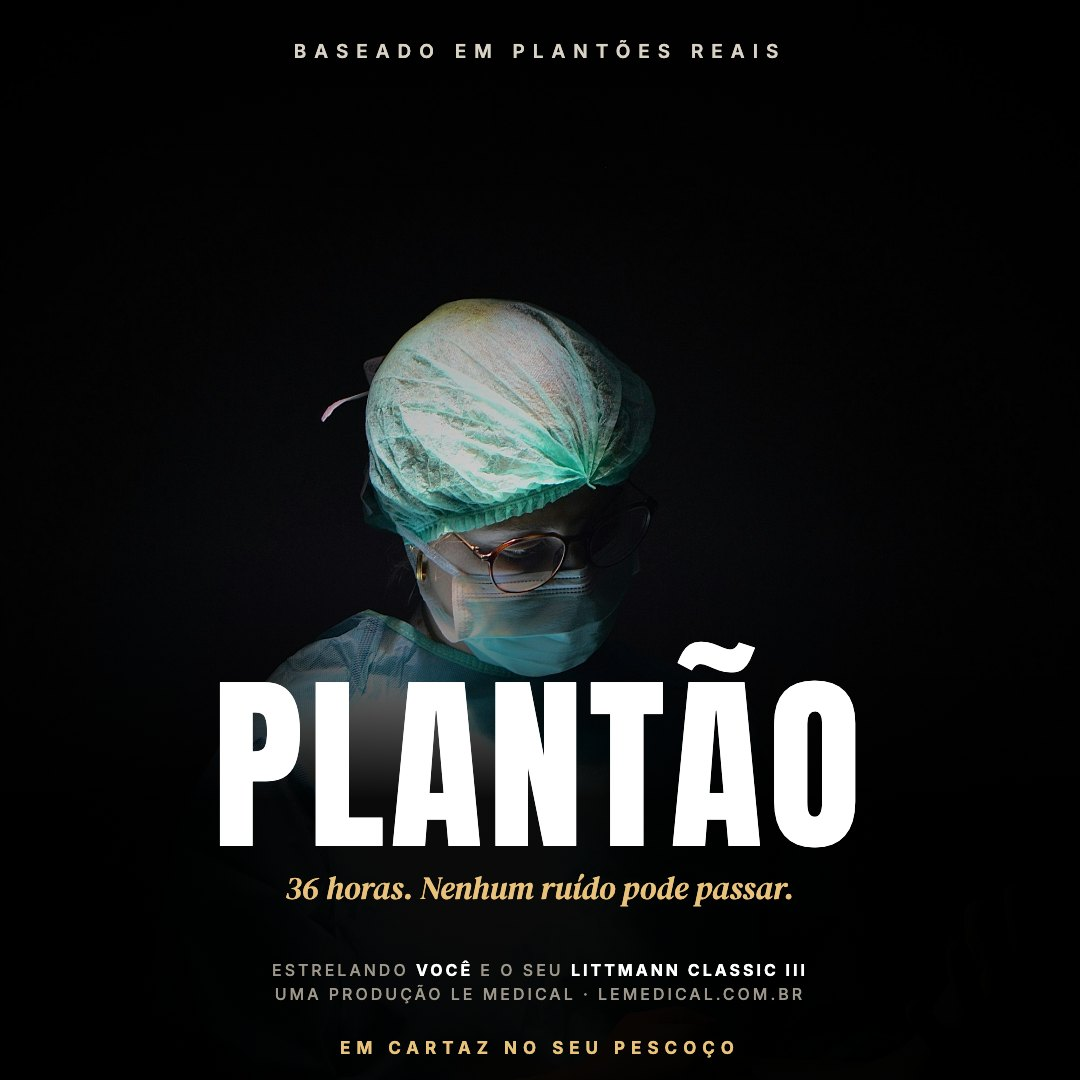
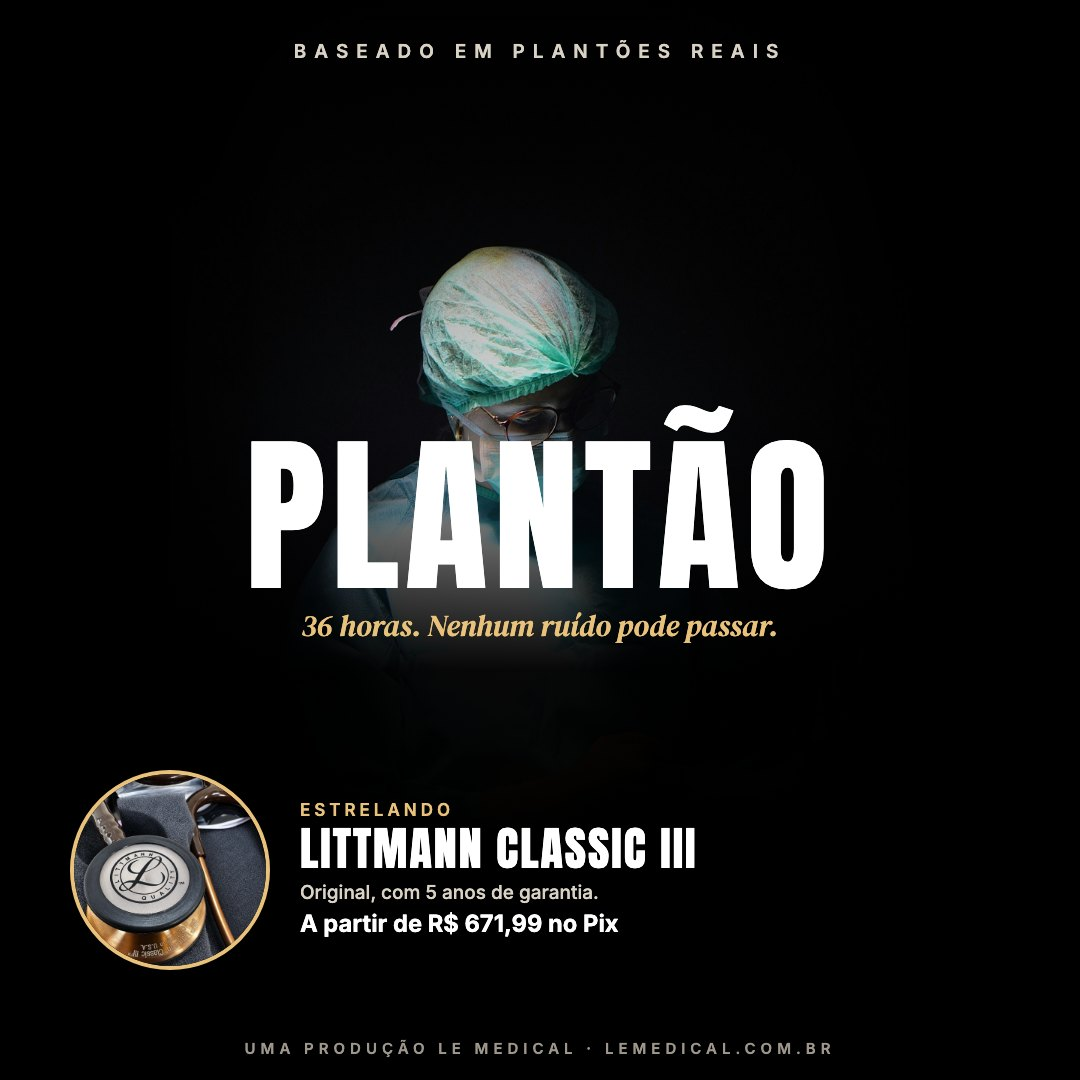
le-medical: linha 2 redesenhada com produto claro (peças 13-20)

Changed region(s): [[0.0611, 0.2139, 0.7944, 0.9778]]

diff --git a/le-medical/criativos-outubro-26/index.html b/le-medical/criativos-outubro-26/index.html
@@ -4,7 +4,7 @@
 <meta charset="utf-8">
 <meta name="viewport" content="width=device-width, initial-scale=1">
 <meta name="robots" content="noindex, nofollow">
-<meta name="description" content="Doze peças novas de anúncio da LE Medical para aprovação, outubro de 2026.">
+<meta name="description" content="Vinte peças novas de anúncio da LE Medical para aprovação, outubro de 2026.">
 <title>LE Medical · Criativos Outubro</title>
 <link rel="preconnect" href="https://fonts.googleapis.com"><link rel="preconnect" href="https://fonts.gstatic.com" crossorigin>
 <link rel="stylesheet" href="https://fonts.googleapis.com/css2?family=Nunito:wght@700;800;900&family=Inter:wght@400;500;600&display=swap">
@@ -39,13 +39,13 @@ footer{margin-top:48px;padding-top:20px;border-top:1px solid var(--line);font-si
 <body><div class="wrap">
 <header>
   <p class="eyebrow">LE Medical · Criativos · Outubro 2026</p>
-  <h1>12 peças novas para aprovação</h1>
+  <h1>20 peças novas para aprovação</h1>
   <p class="sub">São duas linhas. A primeira parte de anúncios que já venderam bem na conta neste ano, com uma ideia nova em cima. A segunda é diferente de tudo o que a conta já rodou: formatos novos com médicos e estudantes no centro. Todas têm a versão do feed (quadrada) e a do story. Podem aprovar quantas quiserem: elas entram em teste juntas e ficam as que venderem mais.</p>
-  <div class="indice"><a href="#linha1">Linha 1 · peças 01 a 10</a><a href="#linha2">Linha 2 · com médicos · peças 11 e 12</a></div>
+  <div class="indice"><a href="#linha1">Linha 1 · peças 01 a 10</a><a href="#linha2">Linha 2 · com médicos · peças 11 a 20</a></div>
 </header>
 <div class="nota">
   <p><b>Preços:</b> são os do Pix, conferidos na página de cada produto em 14/10/2026. Se algum preço mudar antes de subir, a gente atualiza a arte.</p>
-  <p><b>Dia do Médico (peça 03):</b> a data é 18/10 (domingo). Para rodar a tempo, precisamos da aprovação dela até quinta, 15/10.</p>
+  <p><b>Dia do Médico (peças 03 e 16):</b> a data é 18/10 (domingo). Para rodar a tempo, precisamos da aprovação delas até quinta, 15/10.</p>
   <p><b>Fotos da linha 2:</b> são de banco de imagens com uso comercial liberado (Unsplash). Se vocês tiverem fotos de clientes ou da equipe usando os produtos, a gente troca.</p>
 </div>
 <h2 class="parte" id="linha1">Linha 1 · inspirada no que já vendeu</h2>
@@ -142,11 +142,35 @@ footer{margin-top:48px;padding-top:20px;border-top:1px solid var(--line);font-si
   <p class="dest">Leva para: <b>Classic III + personalização</b> · arquivo <code>10_PRESENTE_FORMATURA</code></p>
 </section>
 <h2 class="parte" id="linha2">Linha 2 · formatos novos, com médicos</h2>
-<p class="parte-sub">Duas cenas do dia a dia de quem está começando: a conversa com o colega quando o Littmann chega e o checklist do primeiro plantão.</p>
+<p class="parte-sub">Formatos que a conta nunca usou (WhatsApp, checklist, revista, cinema, player, carta, documentário, cartaz, formatura e crachá), com médicos e estudantes e sempre com o Classic III, o nome e o preço à vista.</p>
 <section class="opcao"><div class="topo"><span class="num">PEÇA 11</span><h2>Conversa de WhatsApp</h2></div><p class="ideia">Uma conversa entre colegas de residência: o Littmann gravado chegou. A mensagem sobre a LE Medical vem de dentro da conversa.</p>
 <div class="artes"><figure><img src="artes/MED_03_CONVERSA_WHATSAPP_FEED.jpg" alt="Peça 3, feed" loading="lazy"><figcaption>feed · 1:1</figcaption></figure><figure><img src="artes/MED_03_CONVERSA_WHATSAPP_STORY.jpg" alt="Peça 3, story" loading="lazy"><figcaption>story · 9:16</figcaption></figure></div>
 <p class="leg"><span>Texto do anúncio</span>Quando o Littmann chega com o seu nome gravado, a primeira coisa que você faz é mandar foto pra todo mundo. Gravação por R$ 40 na LE Medical.</p><p class="dest">arquivo <code>MED_03_CONVERSA_WHATSAPP</code></p></section><section class="opcao"><div class="topo"><span class="num">PEÇA 12</span><h2>Checklist do primeiro plantão</h2></div><p class="ideia">Lista escrita à mão em papel com fundo amarelo: jaleco, crachá, caneta e café riscados, e o Littmann ainda em aberto.</p>
 <div class="artes"><figure><img src="artes/MED_10_CHECKLIST_1O_PLANTAO_FEED.jpg" alt="Peça 10, feed" loading="lazy"><figcaption>feed · 1:1</figcaption></figure><figure><img src="artes/MED_10_CHECKLIST_1O_PLANTAO_STORY.jpg" alt="Peça 10, story" loading="lazy"><figcaption>story · 9:16</figcaption></figure></div>
 <p class="leg"><span>Texto do anúncio</span>Jaleco ✔ crachá ✔ caneta ✔ café ✔ Littmann…? Falta um. Classic III a partir de R$ 671,99 no Pix.</p><p class="dest">arquivo <code>MED_10_CHECKLIST_1O_PLANTAO</code></p></section>
+<section class="opcao"><div class="topo"><span class="num">PEÇA 13</span><h2>Capa de revista: “Escuta”</h2></div><p class="ideia">Capa de revista médica de outubro em que o Classic III é a matéria de capa, com o produto recortado e o selo de preço.</p>
+<div class="artes"><figure><img src="artes/MED_01_CAPA_REVISTA_FEED.jpg?v=3" alt="Peça 13, feed" loading="lazy"><figcaption>feed · 1:1</figcaption></figure><figure><img src="artes/MED_01_CAPA_REVISTA_STORY.jpg?v=3" alt="Peça 13, story" loading="lazy"><figcaption>story · 9:16</figcaption></figure></div>
+<p class="leg"><span>Texto do anúncio</span>O diagnóstico começa antes do exame. Começa no ouvido. Matéria de capa: Littmann Classic III, o estetoscópio de quem está começando. A partir de R$ 671,99 no Pix.</p><p class="dest">arquivo <code>MED_01_CAPA_REVISTA</code></p></section>
+<section class="opcao"><div class="topo"><span class="num">PEÇA 14</span><h2>Pôster de cinema: “Plantão”</h2></div><p class="ideia">Pôster de filme com o Classic III como estrela, mostrado em close, com nome e preço nos créditos.</p>
+<div class="artes"><figure><img src="artes/MED_02_POSTER_PLANTAO_FEED.jpg?v=3" alt="Peça 14, feed" loading="lazy"><figcaption>feed · 1:1</figcaption></figure><figure><img src="artes/MED_02_POSTER_PLANTAO_STORY.jpg?v=3" alt="Peça 14, story" loading="lazy"><figcaption>story · 9:16</figcaption></figure></div>
+<p class="leg"><span>Texto do anúncio</span>36 horas. Nenhum ruído pode passar. Estrelando: Littmann Classic III, original e com 5 anos de garantia. A partir de R$ 671,99 no Pix.</p><p class="dest">arquivo <code>MED_02_POSTER_PLANTAO</code></p></section>
+<section class="opcao"><div class="topo"><span class="num">PEÇA 15</span><h2>Player de música</h2></div><p class="ideia">A capa do álbum é o próprio Classic III. A playlist se chama “Primeiro Plantão”, com a foto de uma médica, e o preço aparece no player.</p>
+<div class="artes"><figure><img src="artes/MED_04_PLAYER_BATIMENTO_FEED.jpg?v=3" alt="Peça 15, feed" loading="lazy"><figcaption>feed · 1:1</figcaption></figure><figure><img src="artes/MED_04_PLAYER_BATIMENTO_STORY.jpg?v=3" alt="Peça 15, story" loading="lazy"><figcaption>story · 9:16</figcaption></figure></div>
+<p class="leg"><span>Texto do anúncio</span>Tocando agora: Littmann Classic III, o primeiro batimento que você vai escutar. A partir de R$ 671,99 no Pix.</p><p class="dest">arquivo <code>MED_04_PLAYER_BATIMENTO</code></p></section>
+<section class="opcao"><div class="topo"><span class="num">PEÇA 16</span><h2>Carta à mão: Dia do Médico</h2></div><p class="ideia">Carta escrita à mão para o Dia do Médico (18/10), com duas polaroids: uma médica e o Classic III com nome e preço.</p>
+<div class="artes"><figure><img src="artes/MED_05_CARTA_DIA_DO_MEDICO_FEED.jpg?v=3" alt="Peça 16, feed" loading="lazy"><figcaption>feed · 1:1</figcaption></figure><figure><img src="artes/MED_05_CARTA_DIA_DO_MEDICO_STORY.jpg?v=3" alt="Peça 16, story" loading="lazy"><figcaption>story · 9:16</figcaption></figure></div>
+<p class="leg"><span>Texto do anúncio</span>Querida doutora, querido doutor: obrigado por escutar com tanta atenção. Que o seu estetoscópio esteja à altura de quem você é. Feliz Dia do Médico. Littmann Classic III a partir de R$ 671,99 no Pix.</p><p class="dest">arquivo <code>MED_05_CARTA_DIA_DO_MEDICO</code></p></section>
+<section class="opcao"><div class="topo"><span class="num">PEÇA 17</span><h2>1816 × hoje</h2></div><p class="ideia">Dois tempos lado a lado: uma consulta de antigamente em preto e branco e o Classic III de hoje, em cor.</p>
+<div class="artes"><figure><img src="artes/MED_06_DOCUMENTARIO_1816_FEED.jpg?v=3" alt="Peça 17, feed" loading="lazy"><figcaption>feed · 1:1</figcaption></figure><figure><img src="artes/MED_06_DOCUMENTARIO_1816_STORY.jpg?v=3" alt="Peça 17, story" loading="lazy"><figcaption>story · 9:16</figcaption></figure></div>
+<p class="leg"><span>Texto do anúncio</span>Há mais de 200 anos, todo diagnóstico começa pelo ouvido. Hoje, com Littmann Classic III original e 5 anos de garantia. A partir de R$ 671,99 no Pix.</p><p class="dest">arquivo <code>MED_06_DOCUMENTARIO_1816</code></p></section>
+<section class="opcao"><div class="topo"><span class="num">PEÇA 18</span><h2>Cartaz vermelho</h2></div><p class="ideia">Letras gigantes, a médica e o Classic III recortado em primeiro plano, com um selo de preço.</p>
+<div class="artes"><figure><img src="artes/MED_07_CARTAZ_PRIMEIRO_LITTMANN_FEED.jpg?v=3" alt="Peça 18, feed" loading="lazy"><figcaption>feed · 1:1</figcaption></figure><figure><img src="artes/MED_07_CARTAZ_PRIMEIRO_LITTMANN_STORY.jpg?v=3" alt="Peça 18, story" loading="lazy"><figcaption>story · 9:16</figcaption></figure></div>
+<p class="leg"><span>Texto do anúncio</span>O primeiro Littmann a gente nunca esquece. Classic III original, com garantia oficial de 5 anos. A partir de R$ 671,99 no Pix.</p><p class="dest">arquivo <code>MED_07_CARTAZ_PRIMEIRO_LITTMANN</code></p></section>
+<section class="opcao"><div class="topo"><span class="num">PEÇA 19</span><h2>“Formou.”</h2></div><p class="ideia">Recém-formada jogando confete, com uma foto real de Littmann gravado com o nome e o preço logo abaixo.</p>
+<div class="artes"><figure><img src="artes/MED_08_FORMOU_FEED.jpg?v=3" alt="Peça 19, feed" loading="lazy"><figcaption>feed · 1:1</figcaption></figure><figure><img src="artes/MED_08_FORMOU_STORY.jpg?v=3" alt="Peça 19, story" loading="lazy"><figcaption>story · 9:16</figcaption></figure></div>
+<p class="leg"><span>Texto do anúncio</span>Formou. O jaleco você já tem, falta o que vai no pescoço. Littmann Classic III com o seu nome gravado: a partir de R$ 671,99 no Pix, e a gravação sai por R$ 40.</p><p class="dest">arquivo <code>MED_08_FORMOU</code></p></section>
+<section class="opcao"><div class="topo"><span class="num">PEÇA 20</span><h2>Crachá “Dr. Você”</h2></div><p class="ideia">Crachá de plantão com o Classic III pendurado ao lado, com nome e preço.</p>
+<div class="artes"><figure><img src="artes/MED_09_CRACHA_DR_VOCE_FEED.jpg?v=3" alt="Peça 20, feed" loading="lazy"><figcaption>feed · 1:1</figcaption></figure><figure><img src="artes/MED_09_CRACHA_DR_VOCE_STORY.jpg?v=3" alt="Peça 20, story" loading="lazy"><figcaption>story · 9:16</figcaption></figure></div>
+<p class="leg"><span>Texto do anúncio</span>Crachá pronto, plantão marcado. Só falta o equipamento certo: Littmann Classic III original, a partir de R$ 671,99 no Pix.</p><p class="dest">arquivo <code>MED_09_CRACHA_DR_VOCE</code></p></section>
 <footer>GGD — Gio Growth Digital · peças geradas em 14/10/2026</footer>
 </div></body></html>
